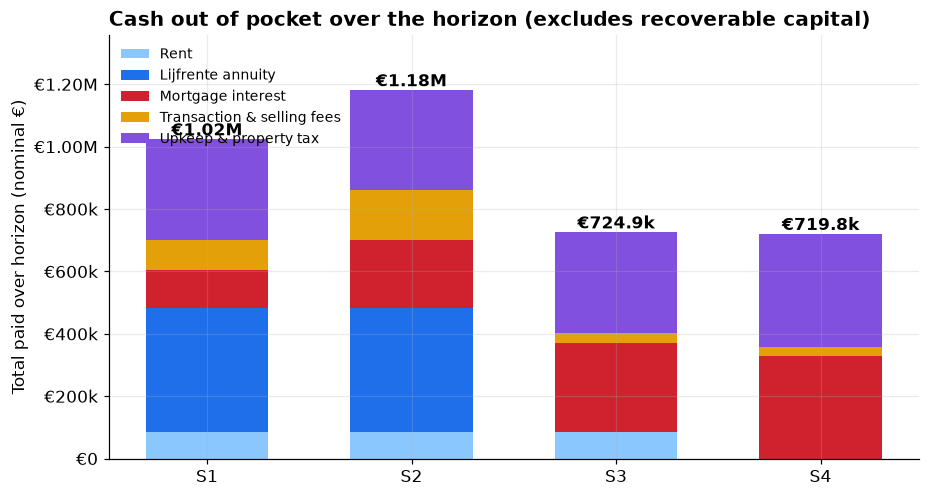
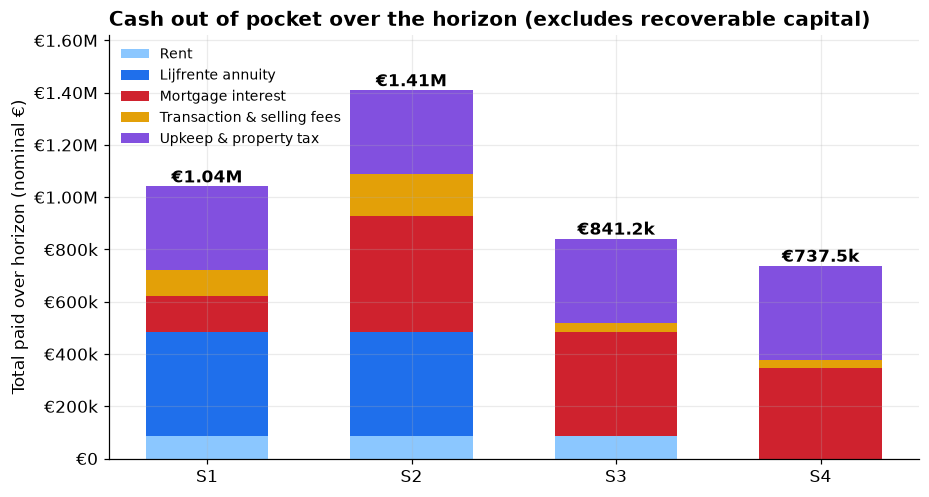
Add rational leverage financing policy (bank-minimum down, pay down only if it beats investing)
- financing_mode='rational' (new default): put down min_down_pct (15%); put
  down more only when mortgage rate > investment return.
- Add investment-portfolio-balance chart so a high monthly outflow is shown
  against the portfolio cushion that funds it (resolves S2's apparent strain).
- Renumber exhibits/images; update narrative, captions, assumptions, README.

diff --git a/generate_report.py b/generate_report.py
@@ -75,6 +75,7 @@ def build_markdown(A, results, grid, sweep_inv, sweep_app):
     p_cash = charts.nominal_cashout(results)
     p_path = charts.net_worth_path(results, A)
     p_out = charts.outflow_path(results, A)
+    p_port = charts.portfolio_path(results, A)
     p_heat = charts.sensitivity_heatmap(grid, A)
     p_lines = charts.sensitivity_lines(sweep_inv, sweep_app, A)
 
@@ -124,16 +125,19 @@ def build_markdown(A, results, grid, sweep_inv, sweep_app):
       f"asset. Conversely, **buying a normal home now ({sc('s4_buy_normal_now')})** is "
       f"the most expensive way to own the identical house: the biggest mortgage and the "
       f"most interest ({eur(results['s4_buy_normal_now'].summary['total_interest'])}).")
+    invest_beats_rate = A.investment_return_annual > A.mortgage_rate_annual
     w(f"2. **The two leaders — {sc(best)} and {sc(second)} — are within "
-      f"{eur(gap_top2)} of each other** (~{gap_top2 / nw[second] * 100:.0f}%), so which "
-      f"one wins is a close call that turns on two levers you control (both editable in "
-      f"`config.py`): **(i)** whether you roll spare cash into the home or keep it "
-      f"invested (`financing_mode`, here *{A.financing_mode}*), and **(ii)** whether your "
-      f"investment return ({pct(A.investment_return_annual)}) beats house appreciation "
-      f"({pct(A.house_appreciation_annual)}). Keeping cash invested and a high investment "
-      f"return favour the rent-then-buy route ({sc('s3_rent_then_normal')}); rolling cash "
-      f"into the home favours the low-mortgage lijfrente ({sc('s1_lijfrente_movein')}). "
-      f"See Exhibits 6–7.")
+      f"{eur(gap_top2)} of each other** (~{gap_top2 / nw[second] * 100:.0f}%), and which "
+      f"one wins comes down to a single comparison: **your investment return "
+      f"({pct(A.investment_return_annual)}) vs. your mortgage rate "
+      f"({pct(A.mortgage_rate_annual)}).** With the *rational* financing rule, whenever "
+      f"investing beats the mortgage you borrow the maximum and keep cash invested — "
+      f"which favours the rent-and-invest route ({sc('s3_rent_then_normal')}); when the "
+      f"mortgage is dearer you pay it down, which favours the near-mortgage-free lijfrente "
+      f"({sc('s1_lijfrente_movein')}). Here investing "
+      f"{'beats' if invest_beats_rate else 'trails'} the mortgage, so **{sc(best)} leads**. "
+      f"House appreciation vs. your investment return is the second lever (it decides "
+      f"rent-vs-own timing). See Exhibits 7–8.")
     w()
 
     # ---------------- exhibit 1 ----------------
@@ -226,11 +230,20 @@ def build_markdown(A, results, grid, sweep_inv, sweep_app):
     w(f"![Exhibit 5 — monthly outflow vs budget]({p_out})")
     w()
     w(f"*Exhibit 5 — Monthly housing outflow vs. the {eur(A.monthly_budget)} budget. "
-      f"{sc('s1_lijfrente_movein')}/{sc('s2_lijfrente_then_normal')} exceed the budget "
-      f"in the first 5 years (rent + annuity + mortgage together). After year 5, "
-      f"{sc('s2_lijfrente_then_normal')} rolls its home-1 sale proceeds into home 2, so "
-      f"its outflow is small mortgage + the continuing {eur(A.lijfrente_monthly)}/mo "
-      f"annuity — not a second full mortgage.*")
+      f"A high line is not the same as unaffordable: when the mortgage is cheaper than "
+      f"investing, the rational choice is to keep cash invested and let it cover the gap. "
+      f"{sc('s2_lijfrente_then_normal')} looks heavy (small mortgage + the continuing "
+      f"{eur(A.lijfrente_monthly)}/mo annuity), but its true strain is small — its funding "
+      f"gap is only {eur(results['s2_lijfrente_then_normal'].summary['peak_funding_gap'])} "
+      f"because the home-1 sale proceeds sit in the portfolio (Exhibit 6) and cover it.*")
+    w()
+    w(f"![Exhibit 6 — investment portfolio balance]({p_port})")
+    w()
+    w(f"*Exhibit 6 — The investment-portfolio balance that sits behind the outflow. This "
+      f"is the cushion that funds any month where housing costs exceed the "
+      f"{eur(A.monthly_budget)} budget. A line dipping below zero is the real red flag "
+      f"(money you'd have to borrow on top of the budget); staying well above zero means "
+      f"the high outflow is comfortably self-funded.*")
     w()
 
     # ---------------- sensitivity ----------------
@@ -239,15 +252,15 @@ def build_markdown(A, results, grid, sweep_inv, sweep_app):
     w("The ranking hinges almost entirely on two uncertain numbers: what you earn "
       "investing, and how fast houses appreciate.")
     w()
-    w(f"![Exhibit 6 — sensitivity grid]({p_heat})")
+    w(f"![Exhibit 7 — sensitivity grid]({p_heat})")
     w()
-    w("*Exhibit 6 — Winning scenario by investment return (rows) and house appreciation "
+    w("*Exhibit 7 — Winning scenario by investment return (rows) and house appreciation "
       "(columns); your base case is outlined. When appreciation approaches or exceeds "
       "investment return, owning property earlier/cheaper (S1/S2) takes over.*")
     w()
-    w(f"![Exhibit 7 — sensitivity lines]({p_lines})")
+    w(f"![Exhibit 8 — sensitivity lines]({p_lines})")
     w()
-    w("*Exhibit 7 — Net worth of each scenario as one assumption varies (the other held "
+    w("*Exhibit 8 — Net worth of each scenario as one assumption varies (the other held "
       "at base). Where lines cross, the recommendation changes.*")
     w()
 
@@ -284,12 +297,10 @@ def build_markdown(A, results, grid, sweep_inv, sweep_app):
         ("Move-in delay (seller usufruct)", f"{A.move_in_delay_years} years"),
         ("Mortgage rate / term", f"{pct(A.mortgage_rate_annual)} fixed over {A.mortgage_term_years} years"),
         ("Financing mode", f"`{A.financing_mode}`" + (
-            " — roll savings & sale proceeds into the home, keep a cash buffer"
-            if A.financing_mode == "roll_equity"
-            else " — fixed % down, keep the rest invested")),
-        ("Cash buffer kept invested at purchase", eur(A.cash_buffer)
-            if A.financing_mode == "roll_equity" else "n/a"),
-        ("Target down payment (target_down mode)", pct(A.down_payment_pct) + " of financed price"),
+            " — bank-minimum down payment; put down more only when the mortgage rate "
+            "exceeds the investment return (then invest vs. pay-down is a real choice)"
+            if A.financing_mode == "rational" else "")),
+        ("Bank minimum down payment", pct(A.min_down_pct) + " of financed price"),
         ("Buy costs — own home (Flanders)", pct(A.buy_cost_pct_primary) + " of price"),
         ("Buy costs — lijfrente (non-primary)", pct(A.lijfrente_buy_cost_pct) + " of value"),
         ("Selling costs", pct(A.sell_cost_pct) + " of price"),
@@ -379,7 +390,7 @@ def _qualitative(A, results):
              f"invested and compounding."),
             ("Timing / price risk (high)", "You buy in 5 years at an unknown price. If "
              "homes appreciate faster than assumed you pay more and this advantage shrinks "
-             "or reverses (see Exhibit 6)."),
+             "or reverses (see Exhibit 7)."),
             ("Rate risk (medium)", "The mortgage rate in 5 years is unknown; a materially "
              "higher rate would erode the edge."),
             ("Rent is 'lost' money (medium)", "≈€84k of rent over 5 years buys no equity — "

diff --git a/config.py b/config.py
@@ -65,16 +65,19 @@ class Assumptions:
     mortgage_rate_annual: float = 0.0375        # user estimate; market avg ~4.0%
     mortgage_term_years: int = 25
     # How the down payment is sized at each purchase:
-    #   "roll_equity"  -> put down all available cash beyond `cash_buffer`
-    #                     (realistic: savings and any sale proceeds roll into the
-    #                     new home, so a "sell one, buy the next" move carries only
-    #                     a small second mortgage). This is the default.
-    #   "target_down"  -> put down a fixed `down_payment_pct` and keep the rest
-    #                     invested (maximum leverage; optimal only when the
-    #                     investment return safely beats the mortgage rate).
-    financing_mode: str = "roll_equity"
-    down_payment_pct: float = 0.20              # used only in "target_down" mode
-    # Liquid cash kept invested at each purchase (emergency buffer) in "roll_equity".
+    #   "rational"    -> put down the bank minimum (`min_down_pct`), and put down
+    #                    MORE only when it pays to: if the mortgage rate exceeds
+    #                    the investment return, sink all spare cash into the home
+    #                    (paying 3.75% debt beats earning less); otherwise borrow
+    #                    the maximum and keep the rest invested. This is the
+    #                    default and matches how a rational household behaves.
+    #   "roll_equity" -> always put down all available cash beyond `cash_buffer`
+    #                    (savings + any sale proceeds roll into the home).
+    #   "target_down" -> put down a fixed `down_payment_pct`, keep the rest invested.
+    financing_mode: str = "rational"
+    min_down_pct: float = 0.15                   # bank's minimum own-funds share
+    down_payment_pct: float = 0.20               # used only in "target_down" mode
+    # Liquid cash kept invested when sinking spare cash into the home (buffer).
     cash_buffer: float = 25_000.0
 
     # ------------------------------------------------------------------ #

diff --git a/charts.py b/charts.py
@@ -154,6 +154,22 @@ def net_worth_path(results, A):
     return _save(fig, "04_net_worth_path")
 
 
+def portfolio_path(results, A):
+    fig, ax = plt.subplots(figsize=(9.5, 4.8))
+    yrs = [m / 12 for m in range(A.horizon_months)]
+    for k in KEYS:
+        ax.plot(yrs, results[k].portfolio, color=COLORS[k], label=SHORT[k], lw=2)
+    ax.axhline(0, color="#444", lw=0.8)
+    ax.yaxis.set_major_formatter(FuncFormatter(_eur))
+    ax.set_xlabel("Years from now")
+    ax.set_ylabel("Investment portfolio (€)")
+    ax.axvline(A.move_in_delay_years, color="#999", ls="--", lw=1)
+    ax.set_title("Investment portfolio balance (the cushion behind the outflow)",
+                 fontweight="bold", loc="left")
+    ax.legend(frameon=False, ncol=4, fontsize=9)
+    return _save(fig, "06_portfolio_path")
+
+
 def outflow_path(results, A):
     fig, ax = plt.subplots(figsize=(9.5, 4.8))
     yrs = [m / 12 for m in range(A.horizon_months)]
@@ -201,7 +217,7 @@ def sensitivity_heatmap(grid, A):
         ax.add_patch(plt.Rectangle((j, i), 1, 1, fill=False, edgecolor="black", lw=3))
         ax.text(j + 0.5, i + 0.14, "base", ha="center", va="center",
                 color="white", fontsize=8)
-    return _save(fig, "06_sensitivity_grid")
+    return _save(fig, "07_sensitivity_grid")
 
 
 def sensitivity_lines(sweep_inv, sweep_app, A):
@@ -229,4 +245,4 @@ def sensitivity_lines(sweep_inv, sweep_app, A):
                       f"{A.investment_return_annual:.0%})",
                       fontweight="bold", loc="left", fontsize=10)
     axes[1].legend(frameon=False, ncol=2, fontsize=8)
-    return _save(fig, "07_sensitivity_lines")
+    return _save(fig, "08_sensitivity_lines")

diff --git a/housing_model.py b/housing_model.py
@@ -143,8 +143,22 @@ def simulate(key: str, A: Assumptions) -> Result:
         """Spend cash on down payment + costs, borrow the rest. Mutates state."""
         nonlocal portfolio, mortgage
         costs = cost_base * cost_pct
-        if A.financing_mode == "roll_equity":
-            # roll savings + any sale proceeds into the home, keep a cash buffer
+        if A.financing_mode == "rational":
+            min_down = A.min_down_pct * price_for_finance
+            if A.mortgage_rate_annual > A.investment_return_annual:
+                # debt costs more than investing -> sink all spare cash into home
+                avail = max(0.0, portfolio - costs - A.cash_buffer)
+                down = min(price_for_finance, avail)
+            else:
+                # investing beats the mortgage -> borrow the max, keep cash invested
+                down = min_down
+            # respect the bank minimum whenever the cash is there to meet it
+            if portfolio - costs >= min_down:
+                down = max(down, min_down)
+            else:                           # can't meet the minimum: put in all we can
+                down = max(0.0, portfolio - costs)
+        elif A.financing_mode == "roll_equity":
+            # always roll savings + any sale proceeds into the home, keep a buffer
             down = min(price_for_finance,
                        max(0.0, portfolio - costs - A.cash_buffer))
         else:                               # "target_down": fixed % down, invest rest

diff --git a/REPORT.md b/REPORT.md
@@ -13,14 +13,14 @@
 
 ## The answer, up front
 
-> Under the base-case assumptions, **Lijfrente + rent, then move in (S1)** maximises long-run wealth (€1,876,557 at 30y), and **Lijfrente + rent, then sell & buy normal (S2)** is weakest (€1,724,696).
+> Under the base-case assumptions, **Rent, then buy normal (S3)** maximises long-run wealth (€1,924,506 at 30y), and **Buy normal now (S4)** is weakest (€1,812,131).
 >
-> Ranking: **S1** (€1,876,557) > **S3** (€1,847,014) > **S4** (€1,797,150) > **S2** (€1,724,696). The gap between best and worst is **€151,861** (~9% of net worth). All four scenarios end owning the **same debt-free home**, so *every difference is opportunity cost, financing and fees — not the house itself.*
+> Ranking: **S3** (€1,924,506) > **S1** (€1,891,538) > **S2** (€1,879,432) > **S4** (€1,812,131). The gap between best and worst is **€112,375** (~6% of net worth). All four scenarios end owning the **same debt-free home**, so *every difference is opportunity cost, financing and fees — not the house itself.*
 
 **Two findings dominate:**
 
-1. **The lijfrente is priced attractively.** Its total outlay (€699,600 = €300,000 up front + €2,220 × 180 months) is *below* the €750,000 market value, is spread over 15 years, and needs almost no mortgage — effectively cheap financing for the very same asset. Conversely, **buying a normal home now (S4)** is the most expensive way to own the identical house: the biggest mortgage and the most interest (€328,148).
-2. **The two leaders — S1 and S3 — are within €29,543 of each other** (~2%), so which one wins is a close call that turns on two levers you control (both editable in `config.py`): **(i)** whether you roll spare cash into the home or keep it invested (`financing_mode`, here *roll_equity*), and **(ii)** whether your investment return (5%) beats house appreciation (3%). Keeping cash invested and a high investment return favour the rent-then-buy route (S3); rolling cash into the home favours the low-mortgage lijfrente (S1). See Exhibits 6–7.
+1. **The lijfrente is priced attractively.** Its total outlay (€699,600 = €300,000 up front + €2,220 × 180 months) is *below* the €750,000 market value, is spread over 15 years, and needs almost no mortgage — effectively cheap financing for the very same asset. Conversely, **buying a normal home now (S4)** is the most expensive way to own the identical house: the biggest mortgage and the most interest (€345,776).
+2. **The two leaders — S3 and S1 — are within €32,968 of each other** (~2%), and which one wins comes down to a single comparison: **your investment return (5%) vs. your mortgage rate (3.75%).** With the *rational* financing rule, whenever investing beats the mortgage you borrow the maximum and keep cash invested — which favours the rent-and-invest route (S3); when the mortgage is dearer you pay it down, which favours the near-mortgage-free lijfrente (S1). Here investing beats the mortgage, so **S3 leads**. House appreciation vs. your investment return is the second lever (it decides rent-vs-own timing). See Exhibits 7–8.
 
 ## 1 · How much wealth each path builds
 
@@ -40,25 +40,25 @@ Only factors that **differ** between scenarios are shown, in today's money (pres
 
 *Exhibit 3 — Total cash actually paid out over the horizon, by category (nominal). Excludes down payment and mortgage principal, which are recoverable as home equity. Clearest view of the €2,220/mo annuity, rent and interest burden.*
 
-> **Watch the paradox:** S2 has the *lowest* cash out of pocket (€1,180,779) yet the *lowest* net worth — because it sinks the most capital into a home appreciating at 3% instead of investments earning 5%. Out-of-pocket cost and wealth are not the same thing; opportunity cost is invisible in a bank statement.
+> **Watch the paradox:** S4 has the *lowest* cash out of pocket (€737,472) yet the *lowest* net worth — because it sinks the most capital into a home appreciating at 3% instead of investments earning 5%. Out-of-pocket cost and wealth are not the same thing; opportunity cost is invisible in a bank statement.
 
 ## 3 · The numbers
 
 Legend: **S1** = Lijfrente + rent, then move in · **S2** = Lijfrente + rent, then sell & buy normal · **S3** = Rent, then buy normal · **S4** = Buy normal now.
 
-| Metric | **S1 ✅** | S2 | S3 | S4 |
+| Metric | S1 | S2 | **S3 ✅** | S4 |
 |---|---|---|---|---|
-| Net worth at horizon (nominal) | €1,876,557 | €1,724,696 | €1,847,014 | €1,797,150 |
-| Net worth in today's money (PV) | €435,962 | €400,681 | €429,099 | €417,514 |
-| Peak monthly housing outflow | €4,773 | €4,880 | €4,210 | €4,416 |
-| Peak cumulative funding gap \* | €169,276 | €135,569 | €0 | €131,410 |
-| Total mortgage interest | €120,683 | €217,271 | €284,474 | €328,148 |
+| Net worth at horizon (nominal) | €1,891,538 | €1,879,432 | €1,924,506 | €1,812,131 |
+| Net worth in today's money (PV) | €439,442 | €436,630 | €447,101 | €420,994 |
+| Peak monthly housing outflow | €4,940 | €6,991 | €5,313 | €4,583 |
+| Peak cumulative funding gap \* | €146,235 | €17,473 | €0 | €119,672 |
+| Total mortgage interest | €138,310 | €445,638 | €400,849 | €345,776 |
 | Total rent paid | €84,278 | €84,278 | €84,278 | €0 |
 | Total lijfrente annuity | €399,600 | €399,600 | €0 | €0 |
 | Total transaction/selling fees | €97,500 | €158,298 | €34,778 | €30,000 |
 | Total upkeep & property tax | €321,333 | €321,333 | €321,333 | €361,696 |
 
-✅ = recommended scenario (Lijfrente + rent, then move in). Note that lower is better for the cost rows, so the recommended column is *not* the smallest in every row — the whole point is that it makes the best overall trade-off.
+✅ = recommended scenario (Rent, then buy normal). Note that lower is better for the cost rows, so the recommended column is *not* the smallest in every row — the whole point is that it makes the best overall trade-off.
 
 \* Peak cumulative funding gap = the largest amount by which required spending has exceeded the €3,600/mo budget on a compounding basis, i.e. extra savings/borrowing needed on top of budget. A red flag for *affordability*, not for final wealth.
 
@@ -70,51 +70,46 @@ Legend: **S1** = Lijfrente + rent, then move in · **S2** = Lijfrente + rent, th
 
 ![Exhibit 5 — monthly outflow vs budget](report_images/05_outflow.png)
 
-*Exhibit 5 — Monthly housing outflow vs. the €3,600 budget. S1/S2 exceed the budget in the first 5 years (rent + annuity + mortgage together). After year 5, S2 rolls its home-1 sale proceeds into home 2, so its outflow is small mortgage + the continuing €2,220/mo annuity — not a second full mortgage.*
+*Exhibit 5 — Monthly housing outflow vs. the €3,600 budget. A high line is not the same as unaffordable: when the mortgage is cheaper than investing, the rational choice is to keep cash invested and let it cover the gap. S2 looks heavy (small mortgage + the continuing €2,220/mo annuity), but its true strain is small — its funding gap is only €17,473 because the home-1 sale proceeds sit in the portfolio (Exhibit 6) and cover it.*
+
+![Exhibit 6 — investment portfolio balance](report_images/06_portfolio_path.png)
+
+*Exhibit 6 — The investment-portfolio balance that sits behind the outflow. This is the cushion that funds any month where housing costs exceed the €3,600 budget. A line dipping below zero is the real red flag (money you'd have to borrow on top of the budget); staying well above zero means the high outflow is comfortably self-funded.*
 
 ## 5 · What could change the answer — sensitivity
 
 The ranking hinges almost entirely on two uncertain numbers: what you earn investing, and how fast houses appreciate.
 
-![Exhibit 6 — sensitivity grid](report_images/06_sensitivity_grid.png)
+![Exhibit 7 — sensitivity grid](report_images/07_sensitivity_grid.png)
 
-*Exhibit 6 — Winning scenario by investment return (rows) and house appreciation (columns); your base case is outlined. When appreciation approaches or exceeds investment return, owning property earlier/cheaper (S1/S2) takes over.*
+*Exhibit 7 — Winning scenario by investment return (rows) and house appreciation (columns); your base case is outlined. When appreciation approaches or exceeds investment return, owning property earlier/cheaper (S1/S2) takes over.*
 
-![Exhibit 7 — sensitivity lines](report_images/07_sensitivity_lines.png)
+![Exhibit 8 — sensitivity lines](report_images/08_sensitivity_lines.png)
 
-*Exhibit 7 — Net worth of each scenario as one assumption varies (the other held at base). Where lines cross, the recommendation changes.*
+*Exhibit 8 — Net worth of each scenario as one assumption varies (the other held at base). Where lines cross, the recommendation changes.*
 
 ## 6 · Risks & qualitative considerations
 
-Ordered best-to-worst on the base-case finances. The financial gaps are modest (~9%) relative to these non-financial factors, which may matter more.
-
-### S1 · Lijfrente + rent, then move in
-
-*Buy the lijfrente home now, rent for 5 years, then move into the lijfrente home and keep it.*
-
-- **Cash-flow strain (high).** For 5 years you pay rent *and* the annuity *and* a mortgage simultaneously — peak outflow €4,773/mo and a cumulative funding gap up to €169,276 that must come from extra savings or income beyond the €3.6k budget.
-- **5-year lock-in (high).** You are committed to the lijfrente home and its location years before you can live there. If your life plans change (job, family, city) you are stuck or must sell into scenario 2.
-- **Transaction-tax risk (high).** The home is not your occupied sole dwelling at purchase, so it likely attracts the ~12% registration duty, not the 2% own-home rate. Confirm with a notary — this is ~€75k of swing.
-- **Counterparty / annuity risk (medium).** The construct depends on the seller and contract terms (indexation, what happens on early death, security on the property). Have the deed reviewed.
-- **Upside.** You lock in today's price on a €750k home for a low up-front outlay and spread payments over 15 years — attractive if prices rise or you value certainty of that specific home.
+Ordered best-to-worst on the base-case finances. The financial gaps are modest (~6%) relative to these non-financial factors, which may matter more.
 
 ### S3 · Rent, then buy normal
 
 *Rent for 5 years, then buy a normal home.*
 
-- **Lowest strain, most flexible (upside).** Comfortably within budget (peak €4,210/mo, no funding gap). Renting keeps you mobile for 5 years and your €200k stays invested and compounding.
-- **Timing / price risk (high).** You buy in 5 years at an unknown price. If homes appreciate faster than assumed you pay more and this advantage shrinks or reverses (see Exhibit 6).
+- **Lowest strain, most flexible (upside).** Comfortably within budget (peak €5,313/mo, no funding gap). Renting keeps you mobile for 5 years and your €200k stays invested and compounding.
+- **Timing / price risk (high).** You buy in 5 years at an unknown price. If homes appreciate faster than assumed you pay more and this advantage shrinks or reverses (see Exhibit 7).
 - **Rate risk (medium).** The mortgage rate in 5 years is unknown; a materially higher rate would erode the edge.
 - **Rent is 'lost' money (medium).** ≈€84k of rent over 5 years buys no equity — but the invested capital more than compensates while returns exceed appreciation.
 
-### S4 · Buy normal now
+### S1 · Lijfrente + rent, then move in
 
-*Buy a normal home now and live in it.*
+*Buy the lijfrente home now, rent for 5 years, then move into the lijfrente home and keep it.*
 
-- **Simplest & most secure (upside).** One transaction, no lock-in games, you own and live in your home immediately with full price certainty and stability.
-- **Opportunity cost is the catch (high).** €200k plus every spare euro is tied up in an asset appreciating at 3% instead of investments at 5%; the biggest mortgage means €328,148 of interest.
-- **Budget is tight long-term (medium).** Mortgage + rising upkeep can exceed the €3.6k budget in later years (funding gap up to €131,410), assuming the budget is not raised with income growth.
-- **Wins if property outperforms.** If appreciation meets or beats your investment return, buying now becomes the strongest option — it has the most exposure to the home.
+- **Cash-flow strain (high).** For 5 years you pay rent *and* the annuity *and* a mortgage simultaneously — peak outflow €4,940/mo and a cumulative funding gap up to €146,235 that must come from extra savings or income beyond the €3.6k budget.
+- **5-year lock-in (high).** You are committed to the lijfrente home and its location years before you can live there. If your life plans change (job, family, city) you are stuck or must sell into scenario 2.
+- **Transaction-tax risk (high).** The home is not your occupied sole dwelling at purchase, so it likely attracts the ~12% registration duty, not the 2% own-home rate. Confirm with a notary — this is ~€75k of swing.
+- **Counterparty / annuity risk (medium).** The construct depends on the seller and contract terms (indexation, what happens on early death, security on the property). Have the deed reviewed.
+- **Upside.** You lock in today's price on a €750k home for a low up-front outlay and spread payments over 15 years — attractive if prices rise or you value certainty of that specific home.
 
 ### S2 · Lijfrente + rent, then sell & buy normal
 
@@ -124,6 +119,15 @@ Ordered best-to-worst on the base-case finances. The financial gaps are modest (
 - **Annuity may continue after sale (high).** Unless the annuity legally transfers to the buyer, you keep paying €2,220/mo for the remaining 10 years on a home you no longer own. Model default assumes it continues; verify the contract.
 - **Only makes sense as a fallback.** This is essentially scenario 1 gone wrong — choose it only if you deliberately want the lijfrente as a 5-year financial bridge and always intended to buy elsewhere.
 - **Speculative CGT risk.** Selling a non-primary home within 5 years can trigger 16.5% capital-gains tax in Belgium. Timing the sale just past 5 years matters.
+
+### S4 · Buy normal now
+
+*Buy a normal home now and live in it.*
+
+- **Simplest & most secure (upside).** One transaction, no lock-in games, you own and live in your home immediately with full price certainty and stability.
+- **Opportunity cost is the catch (high).** €200k plus every spare euro is tied up in an asset appreciating at 3% instead of investments at 5%; the biggest mortgage means €345,776 of interest.
+- **Budget is tight long-term (medium).** Mortgage + rising upkeep can exceed the €3.6k budget in later years (funding gap up to €119,672), assuming the budget is not raised with income growth.
+- **Wins if property outperforms.** If appreciation meets or beats your investment return, buying now becomes the strongest option — it has the most exposure to the home.
 
 ## 7 · Key assumptions
 
@@ -139,9 +143,8 @@ All of these live in `config.py` and can be changed centrally; re-run `python ge
 | Lijfrente annuity | €2,220 / month for 15 years |
 | Move-in delay (seller usufruct) | 5 years |
 | Mortgage rate / term | 3.75% fixed over 25 years |
-| Financing mode | `roll_equity` — roll savings & sale proceeds into the home, keep a cash buffer |
-| Cash buffer kept invested at purchase | €25,000 |
-| Target down payment (target_down mode) | 20% of financed price |
+| Financing mode | `rational` — bank-minimum down payment; put down more only when the mortgage rate exceeds the investment return (then invest vs. pay-down is a real choice) |
+| Bank minimum down payment | 15% of financed price |
 | Buy costs — own home (Flanders) | 4% of price |
 | Buy costs — lijfrente (non-primary) | 13% of value |
 | Selling costs | 3% of price |

diff --git a/README.md b/README.md
@@ -69,9 +69,11 @@ and fees* — which is exactly what the value bridge isolates.
   continuing. Toggle `lijfrente_annuity_continues_after_sale`.
 - The monthly **budget is fixed in nominal terms** (no income growth) and
   portfolio surpluses/shortfalls both accrue at the investment return.
-- **Financing mode** (`financing_mode`) is pivotal to the S1-vs-S3 ranking:
-  `roll_equity` (default) rolls savings and any sale proceeds into the home
-  (so a "sell one, buy the next" move carries only a small second mortgage);
-  `target_down` instead keeps cash invested behind a minimum down payment.
+- **Financing mode** (`financing_mode`) is pivotal to the S1-vs-S3 ranking. The
+  default `rational` puts down the bank minimum (`min_down_pct`, 15%) and only
+  puts down more when the mortgage rate exceeds the investment return (i.e. when
+  paying down debt beats investing). Alternatives: `roll_equity` (always sink
+  savings + sale proceeds into the home) and `target_down` (fixed % down, keep
+  the rest invested).
 
 Not financial advice — a planning model to compare structural trade-offs.
